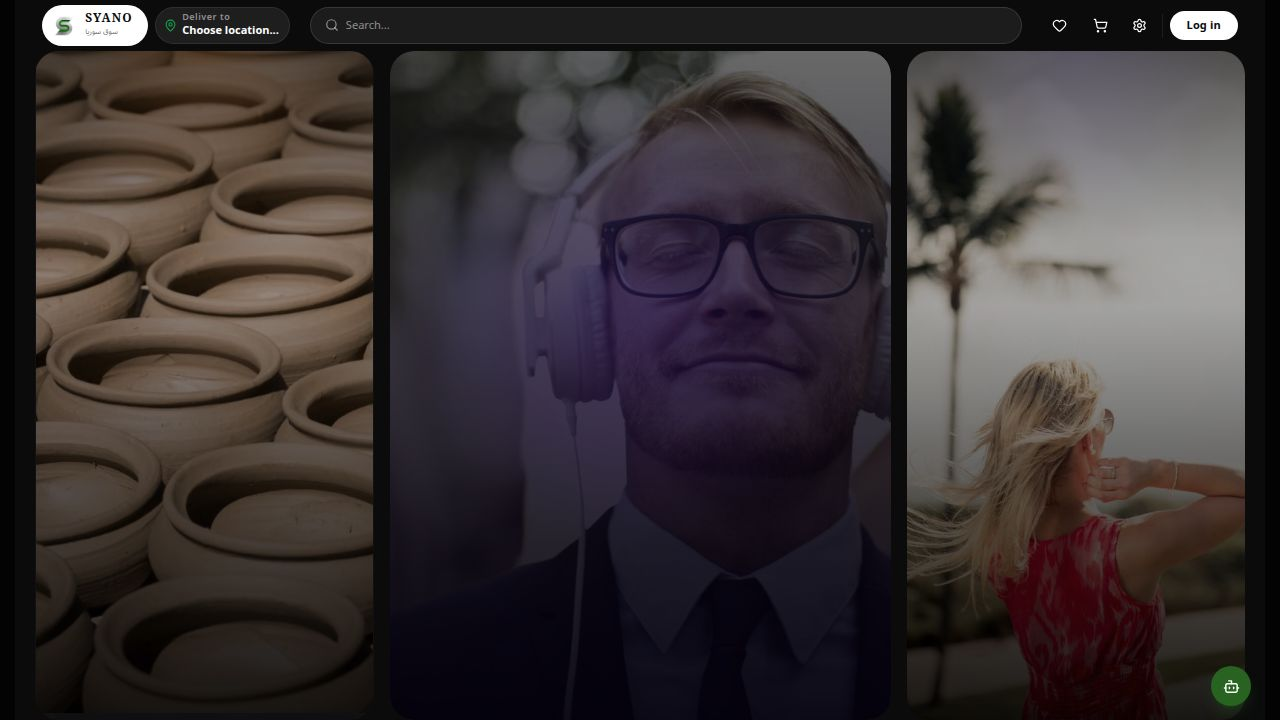
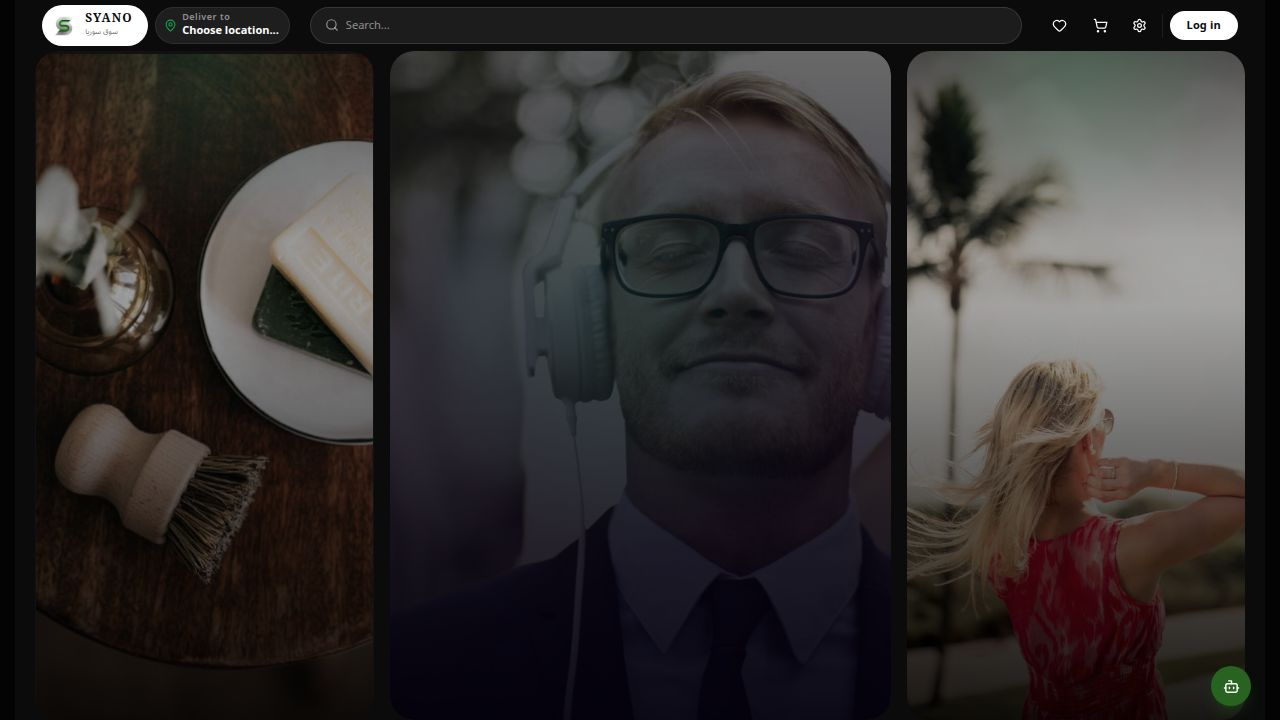
Update accent colors to use the site's green consistently
Replaces all instances of purple accents with the designated green accent color in the luxury landing page and its navbar, ensuring consistency across both light and dark modes.

Replit-Commit-Author: Agent
Replit-Commit-Session-Id: 1be86b3c-6ca1-4396-ab23-e744771a7cfa
Replit-Commit-Checkpoint-Type: full_checkpoint
Replit-Commit-Event-Id: 4d0bea36-551a-40fd-8a1b-fde6971f86e3
Replit-Commit-Screenshot-Url: https://storage.googleapis.com/screenshot-production-us-central1/cc40c669-8dcc-48f2-8d11-56ca1caf157f/1be86b3c-6ca1-4396-ab23-e744771a7cfa/AggTSVe
Replit-Helium-Checkpoint-Created: true

Changed region(s): [[0.0312, 0.0611, 0.3125, 0.8556], [0.4688, 0.3667, 0.5625, 0.5194], [0.1562, 0.8861, 0.25, 0.9472]]

diff --git a/artifacts/marketplace/src/pages/luxury-landing.tsx b/artifacts/marketplace/src/pages/luxury-landing.tsx
@@ -49,7 +49,7 @@ const FONT_CSS = `
   @import url('https://fonts.googleapis.com/css2?family=Noto+Naskh+Arabic:wght@400;600;700&family=Noto+Sans+Arabic:wght@400;500;600;700&display=swap');
   .lux-root *, .lux-root { box-sizing: border-box; }
   .lux-root button { cursor: pointer; border: none; outline: none; }
-  .lux-root button:focus-visible { outline: 2px solid rgba(124,58,237,0.7); outline-offset: 2px; border-radius: 9999px; }
+  .lux-root button:focus-visible { outline: 2px solid rgba(22,163,74,0.75); outline-offset: 2px; border-radius: 9999px; }
 `;
 
 /* ─── Responsive section grid rules ─────────────────────────────────────────*/
@@ -153,63 +153,58 @@ const SECTION_CSS = `
   .lux-social-icon:hover { background: rgba(255,255,255,0.10) !important; border-color: rgba(255,255,255,0.18) !important; color: rgba(255,255,255,0.80) !important; }
   .lux-footer-input:focus { border-color: rgba(255,255,255,0.20) !important; }
 
-  /* ── Light mode overrides ─────────────────────────────────────────────────
-     Applied when html does NOT carry the .dark class (next-themes light/system-light).
-     Only hover/focus interactive states need CSS overrides; other colors are
-     driven by the LuxColorCtx React context. */
+  /* ── Light mode CSS overrides ─────────────────────────────────────────────
+     Hover/focus interactive states that cannot be driven by React context.   */
   html:not(.dark) .lux-footer-bottom { border-top-color: rgba(17,24,39,0.08); }
   html:not(.dark) .lux-footer-link:hover { color: rgba(17,24,39,0.75) !important; }
   html:not(.dark) .lux-social-icon:hover { background: rgba(17,24,39,0.06) !important; border-color: rgba(17,24,39,0.14) !important; color: rgba(17,24,39,0.60) !important; }
-  html:not(.dark) .lux-footer-input:focus { border-color: rgba(17,24,39,0.20) !important; }
+  html:not(.dark) .lux-footer-input:focus { border-color: rgba(22,163,74,0.35) !important; }
 
   .lux-root { text-rendering: optimizeSpeed; }
   .lux-gpu-layer { transform: translateZ(0); backface-visibility: hidden; }
 `;
 
 /* ─── Brand tokens — DARK (default) ──────────────────────────────────────────
-   All rgba(255,255,255,…) values are for dark surfaces.
-   C is the single source of truth for dark mode.                            */
+   Site-wide green accent: #16A34A (confirmed in LuxuryNavbar GREEN constant
+   and throughout badges/icons/interactive elements site-wide).
+   greenAlpha / greenGlow are alpha variants of the same hue.                */
 const C = {
-  bg:          "#0B0B0C",
-  card:        "#111113",
-  card2:       "#141416",
-  white:       "#FFFFFF",
-  offWhite:    "#F2F2F0",
-  muted:       "rgba(255,255,255,0.52)",
-  dimmed:      "rgba(255,255,255,0.28)",
-  border:      "rgba(255,255,255,0.08)",
-  borderHov:   "rgba(255,255,255,0.16)",
-  purple:      "#7C3AED",
-  purpleAlpha: "rgba(124,58,237,0.18)",
-  purpleGlow:  "rgba(124,58,237,0.40)",
-  green:       "#16A34A",
-  greenAlpha:  "rgba(22,163,74,0.16)",
+  bg:         "#0B0B0C",
+  card:       "#111113",
+  card2:      "#141416",
+  white:      "#FFFFFF",
+  offWhite:   "#F2F2F0",
+  muted:      "rgba(255,255,255,0.52)",
+  dimmed:     "rgba(255,255,255,0.28)",
+  border:     "rgba(255,255,255,0.08)",
+  borderHov:  "rgba(255,255,255,0.16)",
+  green:      "#16A34A",
+  greenAlpha: "rgba(22,163,74,0.16)",
+  greenGlow:  "rgba(22,163,74,0.28)",
 } as const;
 
 /* ─── Brand tokens — LIGHT ────────────────────────────────────────────────────
-   Every value is traceable to an existing site-wide token in index.css :root.
-   background  hsl(210 20% 98%) ≈ #F8FAFC         (--background light)
-   card        hsl(0 0% 100%)   = #FFFFFF           (--card light)
-   card2       hsl(220 22% 96%) ≈ #EEF0F7           (--section-alt light)
-   foreground  hsl(221 39% 11%) ≈ #111827           (--foreground light)
-   muted-fg    hsl(220 13% 32%) ≈ #3D4554           (--muted-foreground light)
-   border      hsl(220 13% 84%) ≈ #D1D4E0           (--border light)
-   purple / green unchanged — brand accents readable on both surfaces.       */
+   Every value traceable to existing site-wide tokens in index.css :root.
+   background  hsl(210 20% 98%) ≈ #F8FAFC
+   card        hsl(0 0% 100%)   = #FFFFFF
+   card2       hsl(220 22% 96%) ≈ #EEF0F7 (--section-alt)
+   foreground  hsl(221 39% 11%) ≈ #111827 (--foreground)
+   muted-fg    hsl(220 13% 32%) ≈ #3D4554 (--muted-foreground)
+   border      hsl(220 13% 84%) ≈ #D1D4E0 (--border)
+   green / greenAlpha / greenGlow — site-wide accent, unchanged.             */
 const CL = {
-  bg:          "#F8FAFC",
-  card:        "#FFFFFF",
-  card2:       "#EEF0F7",
-  white:       "#111827",
-  offWhite:    "#111827",
-  muted:       "#3D4554",
-  dimmed:      "rgba(17,24,39,0.50)",
-  border:      "#D1D4E0",
-  borderHov:   "rgba(17,24,39,0.22)",
-  purple:      "#7C3AED",
-  purpleAlpha: "rgba(124,58,237,0.10)",
-  purpleGlow:  "rgba(124,58,237,0.18)",
-  green:       "#16A34A",
-  greenAlpha:  "rgba(22,163,74,0.10)",
+  bg:         "#F8FAFC",
+  card:       "#FFFFFF",
+  card2:      "#EEF0F7",
+  white:      "#111827",
+  offWhite:   "#111827",
+  muted:      "#3D4554",
+  dimmed:     "rgba(17,24,39,0.50)",
+  border:     "#D1D4E0",
+  borderHov:  "rgba(17,24,39,0.22)",
+  green:      "#16A34A",
+  greenAlpha: "rgba(22,163,74,0.10)",
+  greenGlow:  "rgba(22,163,74,0.14)",
 } as const;
 
 /* ─── Color token type — string-valued so both C (dark) and CL (light) fit ─*/
@@ -274,17 +269,19 @@ interface FeaturedStoreAPI {
   reviewsCount:  number;
 }
 
-/* ─── Hero card stacks ────────────────────────────────────────────────────────*/
+/* ─── Hero card stacks ────────────────────────────────────────────────────────
+   Accents are per-card image overlay tints. All purple-family entries
+   replaced with green-family or blue tones to eliminate purple from UI.     */
 const LEFT_STACK: StackItem[] = [
   { id: "l0", label: "lux.left.l0.label", sublabel: "lux.left.l0.sublabel", badge: "lux.left.l0.badge",
     imageUrl: "https://images.pexels.com/photos/2220329/pexels-photo-2220329.jpeg?auto=compress&cs=tinysrgb&w=600&h=900&fit=crop",
-    accent: "#A78BFA" },
+    accent: "#4ade80" },                    /* was #A78BFA (light purple) → light green */
   { id: "l1", label: "lux.left.l1.label", sublabel: "lux.left.l1.sublabel", badge: "lux.left.l1.badge",
     imageUrl: "https://images.pexels.com/photos/267320/pexels-photo-267320.jpeg?auto=compress&cs=tinysrgb&w=600&h=900&fit=crop",
-    accent: "#FBBF24" },
+    accent: "#FBBF24" },                    /* amber — unchanged */
   { id: "l2", label: "lux.left.l2.label", sublabel: "lux.left.l2.sublabel", badge: "lux.left.l2.badge",
     imageUrl: "https://images.pexels.com/photos/755992/pexels-photo-755992.jpeg?auto=compress&cs=tinysrgb&w=600&h=900&fit=crop",
-    accent: "#818CF8" },
+    accent: "#60a5fa" },                    /* was #818CF8 (indigo-purple) → blue-400 */
 ];
 
 const RIGHT_STACK: StackItem[] = [
@@ -307,23 +304,25 @@ const CENTER_SLIDE_IMAGES = [
   "https://images.pexels.com/photos/4215110/pexels-photo-4215110.jpeg?auto=compress&cs=tinysrgb&w=600&h=900&fit=crop",
 ];
 
-/* ─── Category definitions ────────────────────────────────────────────────────*/
+/* ─── Category definitions ────────────────────────────────────────────────────
+   home_decor accent was #8b5cf6 (violet) → replaced with #22c55e (green-500). */
 const CATEGORY_DEFS = [
   { nameKey: "home.categories.electronics", countKey: "home.categories.count_electronics", img: "https://images.unsplash.com/photo-1498049794561-7780e7231661?w=500&h=360&fit=crop&auto=format&q=85", accent: "#3b82f6", slug: "Electronics" },
   { nameKey: "home.categories.fashion",     countKey: "home.categories.count_fashion",     img: "https://images.unsplash.com/photo-1483985988355-763728e1935b?w=500&h=360&fit=crop&auto=format&q=85", accent: "#ec4899", slug: "Fashion" },
   { nameKey: "home.categories.beauty",      countKey: "home.categories.count_beauty",      img: "https://images.unsplash.com/photo-1596462502278-27bfdc403348?w=500&h=360&fit=crop&auto=format&q=85", accent: "#f59e0b", slug: "Beauty & Personal Care" },
-  { nameKey: "home.categories.home_decor",  countKey: "home.categories.count_home_decor",  img: "https://images.unsplash.com/photo-1555041469-a586c61ea9bc?w=500&h=360&fit=crop&auto=format&q=85", accent: "#8b5cf6", slug: "Home & Kitchen" },
+  { nameKey: "home.categories.home_decor",  countKey: "home.categories.count_home_decor",  img: "https://images.unsplash.com/photo-1555041469-a586c61ea9bc?w=500&h=360&fit=crop&auto=format&q=85", accent: "#22c55e", slug: "Home & Kitchen" },
   { nameKey: "home.categories.sports",      countKey: "home.categories.count_sports",      img: "https://images.unsplash.com/photo-1552674605-db6ffd4facb5?w=500&h=360&fit=crop&auto=format&q=85", accent: "#276221", slug: "Sports & Fitness" },
   { nameKey: "home.categories.watches",     countKey: "home.categories.count_watches",     img: "https://images.unsplash.com/photo-1547996160-81dfa63595aa?w=500&h=360&fit=crop&auto=format&q=85", accent: "#f97316", slug: "Accessories" },
   { nameKey: "home.categories.phones",      countKey: "home.categories.count_phones",      img: "https://images.unsplash.com/photo-1511707171634-5f897ff02aa9?w=500&h=360&fit=crop&auto=format&q=85", accent: "#06b6d4", slug: "Electronics" },
-  { nameKey: "home.categories.computers",   countKey: "home.categories.count_computers",   img: "https://images.unsplash.com/photo-1496181133206-80ce9b88a853?w=500&h=360&fit=crop&auto=format&q=85", accent: "#a855f7", slug: "Electronics" },
+  { nameKey: "home.categories.computers",   countKey: "home.categories.count_computers",   img: "https://images.unsplash.com/photo-1496181133206-80ce9b88a853?w=500&h=360&fit=crop&auto=format&q=85", accent: "#16a34a", slug: "Electronics" },
 ];
 
-/* ─── Static store fallback data ─────────────────────────────────────────────*/
+/* ─── Static store fallback data ─────────────────────────────────────────────
+   بيت الديكور logoColor was #8b5cf6 (violet) → replaced with #16A34A.      */
 const STATIC_STORES = [
   { id: 1, name: "تك ستور سوريا", taglineAr: "أحدث الإلكترونيات والأجهزة الذكية", categoryKey: "home.categories.electronics", rating: 4.9, reviews: 1840, productCount: 3240, coverImg: "https://images.unsplash.com/photo-1684395882817-030e24c0322a?w=700&h=220&fit=crop&auto=format&q=80", logoColor: "#3b82f6", logoInitial: "ت", verified: true, slug: null },
   { id: 2, name: "دار الأناقة",   taglineAr: "أزياء فاخرة وموضة معاصرة للجميع",   categoryKey: "home.categories.fashion",     rating: 4.8, reviews: 2210, productCount: 1890, coverImg: "https://images.unsplash.com/photo-1768745294179-693a07a3f054?w=700&h=220&fit=crop&auto=format&q=80", logoColor: "#ec4899", logoInitial: "د", verified: true, slug: null },
-  { id: 3, name: "بيت الديكور",   taglineAr: "أثاث عصري وإكسسوارات منزلية راقية",  categoryKey: "home.categories.home_decor",  rating: 4.7, reviews: 956,  productCount: 2140, coverImg: "https://images.unsplash.com/photo-1724582586529-62622e50c0b3?w=700&h=220&fit=crop&auto=format&q=80", logoColor: "#8b5cf6", logoInitial: "ب", verified: true, slug: null },
+  { id: 3, name: "بيت الديكور",   taglineAr: "أثاث عصري وإكسسوارات منزلية راقية",  categoryKey: "home.categories.home_decor",  rating: 4.7, reviews: 956,  productCount: 2140, coverImg: "https://images.unsplash.com/photo-1724582586529-62622e50c0b3?w=700&h=220&fit=crop&auto=format&q=80", logoColor: "#16A34A", logoInitial: "ب", verified: true, slug: null },
 ];
 
 /* ─── Motion spring ───────────────────────────────────────────────────────────*/
@@ -355,7 +354,7 @@ const PHASE1_END_MS =
   bannerVariant.visible.transition.duration * 1000; // = 650
 
 /* ═══════════════════════════════════════════════════════════════════════════
-   HERO COMPONENTS (existing — unchanged)
+   HERO COMPONENTS
 ═══════════════════════════════════════════════════════════════════════════*/
 
 function ProductCard({ item }: { item: StackItem }) {
@@ -400,11 +399,11 @@ const CenterCard = memo(function CenterCard({ reduced }: { reduced: boolean }) {
         />
       </AnimatePresence>
 
-      {/* Dark cinematic gradient — kept in both modes to ensure tagline text contrast on image */}
+      {/* Dark cinematic gradient — kept in both modes to ensure text contrast on photo */}
       <div style={{ position: "absolute", inset: 0, background: "linear-gradient(to bottom, rgba(0,0,0,0.18) 0%, rgba(8,3,24,0.56) 44%, rgba(4,1,14,0.90) 100%)", pointerEvents: "none", borderRadius: "inherit" }} />
 
-      {/* Purple spectral glow — toned for light mode via purpleGlow token */}
-      <div style={{ position: "absolute", inset: 0, background: `radial-gradient(ellipse 72% 52% at 50% 40%, ${colors.purpleGlow} 0%, transparent 66%)`, pointerEvents: "none", borderRadius: "inherit", opacity: 0.44 }} />
+      {/* Green spectral glow — toned per mode via greenGlow token */}
+      <div style={{ position: "absolute", inset: 0, background: `radial-gradient(ellipse 72% 52% at 50% 40%, ${colors.greenGlow} 0%, transparent 66%)`, pointerEvents: "none", borderRadius: "inherit", opacity: 0.44 }} />
     </div>
   );
 });
@@ -472,7 +471,7 @@ function LuxCountdownTimer() {
       <div style={{ display: "flex", alignItems: "center", gap: "4px" }}>
         {[pad(time.h), pad(time.m), pad(time.s)].map((val, i) => (
           <span key={i} style={{ display: "flex", alignItems: "center", gap: "4px" }}>
-            <span style={{ fontWeight: 700, fontSize: "0.78rem", fontVariantNumeric: "tabular-nums", color: colors.white, background: colors.purpleAlpha, border: `1px solid ${colors.border}`, padding: "2px 8px", borderRadius: "6px", minWidth: "2rem", textAlign: "center", letterSpacing: "0.04em" }}>
+            <span style={{ fontWeight: 700, fontSize: "0.78rem", fontVariantNumeric: "tabular-nums", color: colors.white, background: colors.greenAlpha, border: `1px solid ${colors.border}`, padding: "2px 8px", borderRadius: "6px", minWidth: "2rem", textAlign: "center", letterSpacing: "0.04em" }}>
               {val}
             </span>
             {i < 2 && <span style={{ color: colors.dimmed, fontWeight: 700, fontSize: "0.8rem" }}>:</span>}
@@ -483,7 +482,7 @@ function LuxCountdownTimer() {
   );
 }
 
-/* ─── Luxury deal card (needs cart hooks → separate component) ────────────────*/
+/* ─── Luxury deal card ────────────────────────────────────────────────────────*/
 const LuxDealCard = memo(function LuxDealCard({ deal, index }: { deal: DealData; index: number }) {
   const { t } = useTranslation();
   const { format } = useCurrency();
@@ -565,7 +564,7 @@ const LuxDealCard = memo(function LuxDealCard({ deal, index }: { deal: DealData;
           <button
             onClick={handleAdd}
             disabled={adding}
-            style={{ display: "flex", alignItems: "center", gap: "5px", fontFamily: F.sans, fontWeight: 600, fontSize: "0.75rem", background: colors.purpleAlpha, border: `1px solid ${colors.border}`, color: colors.muted, padding: "12px 14px", borderRadius: "9999px", flexShrink: 0, opacity: adding ? 0.5 : 1 }}>
+            style={{ display: "flex", alignItems: "center", gap: "5px", fontFamily: F.sans, fontWeight: 600, fontSize: "0.75rem", background: colors.greenAlpha, border: `1px solid ${colors.border}`, color: colors.muted, padding: "12px 14px", borderRadius: "9999px", flexShrink: 0, opacity: adding ? 0.5 : 1 }}>
             {adding
               ? <div style={{ width: 12, height: 12, border: `1.5px solid ${colors.muted}`, borderTopColor: "transparent", borderRadius: "50%", animation: "spin 0.6s linear infinite" }} />
               : <ShoppingCart style={{ width: 12, height: 12 }} />}
@@ -785,7 +784,8 @@ const LuxTrendingSection = memo(function LuxTrendingSection({ products }: { prod
                   <div style={{ position: "absolute", inset: 0, background: "linear-gradient(to top, rgba(0,0,0,0.45) 0%, transparent 55%)" }} />
                   {isTrending && (
                     <div style={{ position: "absolute", top: "10px", insetInlineStart: "10px" }}>
-                      <span style={{ fontFamily: F.sans, fontWeight: 600, fontSize: "10px", background: colors.purpleAlpha, border: `1px solid rgba(124,58,237,0.40)`, color: "#c4b5fd", padding: "3px 9px", borderRadius: "9999px", letterSpacing: "0.04em" }}>
+                      {/* Trending badge — green accent: bg=greenAlpha, border=green at 40% opacity, text=#4ade80 (light green) */}
+                      <span style={{ fontFamily: F.sans, fontWeight: 600, fontSize: "10px", background: colors.greenAlpha, border: `1px solid rgba(22,163,74,0.40)`, color: "#4ade80", padding: "3px 9px", borderRadius: "9999px", letterSpacing: "0.04em" }}>
                         {t("home.trending.trending_badge")}
                       </span>
                     </div>
@@ -914,13 +914,14 @@ const LuxJoinSection = memo(function LuxJoinSection() {
           {/* Background glows */}
           <div style={{ position: "absolute", inset: 0, pointerEvents: "none" }}>
             <div style={{ position: "absolute", inset: 0, opacity: 0.035, backgroundImage: `linear-gradient(${colors.border} 1px, transparent 1px), linear-gradient(90deg, ${colors.border} 1px, transparent 1px)`, backgroundSize: "40px 40px" }} />
-            <div style={{ position: "absolute", top: "50%", left: "50%", transform: "translate(-50%,-50%)", width: "600px", height: "280px", borderRadius: "50%", background: colors.purpleGlow, filter: "blur(100px)" }} />
+            {/* Green ambient blur — replaces former purple glow */}
+            <div style={{ position: "absolute", top: "50%", left: "50%", transform: "translate(-50%,-50%)", width: "600px", height: "280px", borderRadius: "50%", background: colors.greenGlow, filter: "blur(100px)" }} />
           </div>
 
           <div style={{ position: "relative", zIndex: 1, padding: "4rem 2rem" }}>
             <motion.div initial={{ opacity: 0, y: 20 }} whileInView={{ opacity: 1, y: 0 }} viewport={{ once: true }} transition={{ duration: 0.6, ease: fadeEase }}
               style={{ textAlign: "center", marginBottom: "3rem" }}>
-              <span style={{ display: "inline-flex", alignItems: "center", gap: "6px", fontFamily: F.sans, fontWeight: 600, fontSize: "0.72rem", letterSpacing: "0.1em", color: colors.muted, textTransform: "uppercase", background: colors.purpleAlpha, border: `1px solid ${colors.border}`, padding: "5px 14px", borderRadius: "9999px", marginBottom: "1.25rem" }}>
+              <span style={{ display: "inline-flex", alignItems: "center", gap: "6px", fontFamily: F.sans, fontWeight: 600, fontSize: "0.72rem", letterSpacing: "0.1em", color: colors.muted, textTransform: "uppercase", background: colors.greenAlpha, border: `1px solid ${colors.border}`, padding: "5px 14px", borderRadius: "9999px", marginBottom: "1.25rem" }}>
                 {t("home.join.badge")}
               </span>
               <h2 style={{ fontFamily: F.naskh, fontWeight: 700, fontSize: "clamp(1.5rem,3.5vw,2.75rem)", letterSpacing: "-0.02em", lineHeight: 1.2, color: colors.white, margin: "0 0 1rem" }}>
@@ -932,21 +933,21 @@ const LuxJoinSection = memo(function LuxJoinSection() {
             </motion.div>
 
             <div className="lux-join-grid">
-              {/* Seller card */}
+              {/* Seller card — green accent border + icon */}
               <motion.div initial={{ opacity: 0, y: 20 }} whileInView={{ opacity: 1, y: 0 }} viewport={{ once: true }} transition={{ duration: 0.55, delay: 0.1, ease: fadeEase }}
                 onClick={handleOpenYourStore}
                 onKeyDown={(e) => { if (e.key === "Enter" || e.key === " ") { e.preventDefault(); handleOpenYourStore(); } }}
                 role="button"
                 tabIndex={0}
-                style={{ background: colors.card2, border: `1px solid ${colors.purpleAlpha}`, borderRadius: "18px", padding: "1.75rem", cursor: "pointer", position: "relative", overflow: "hidden" }}>
-                <div style={{ position: "absolute", inset: 0, background: `radial-gradient(ellipse 80% 60% at 50% 110%, ${colors.purpleAlpha} 0%, transparent 70%)`, pointerEvents: "none" }} />
+                style={{ background: colors.card2, border: `1px solid rgba(22,163,74,0.22)`, borderRadius: "18px", padding: "1.75rem", cursor: "pointer", position: "relative", overflow: "hidden" }}>
+                <div style={{ position: "absolute", inset: 0, background: `radial-gradient(ellipse 80% 60% at 50% 110%, ${colors.greenAlpha} 0%, transparent 70%)`, pointerEvents: "none" }} />
                 <div style={{ position: "relative", zIndex: 1 }}>
-                  <div style={{ width: 48, height: 48, borderRadius: "14px", background: colors.purpleAlpha, border: `1px solid rgba(124,58,237,0.25)`, display: "flex", alignItems: "center", justifyContent: "center", marginBottom: "1.25rem" }}>
-                    <Store style={{ width: 22, height: 22, color: "#a78bfa" }} />
+                  <div style={{ width: 48, height: 48, borderRadius: "14px", background: colors.greenAlpha, border: `1px solid rgba(22,163,74,0.25)`, display: "flex", alignItems: "center", justifyContent: "center", marginBottom: "1.25rem" }}>
+                    <Store style={{ width: 22, height: 22, color: "#4ade80" }} />
                   </div>
                   <h3 style={{ fontFamily: F.naskh, fontWeight: 800, fontSize: "1.2rem", color: colors.white, margin: "0 0 0.5rem" }}>{t("home.join.seller_title")}</h3>
                   <p style={{ fontFamily: F.sans, fontWeight: 400, fontSize: "0.85rem", lineHeight: 1.65, color: colors.muted, margin: "0 0 1.25rem" }}>{t("home.join.seller_desc")}</p>
-                  <div style={{ display: "flex", alignItems: "center", gap: "6px", color: "#c4b5fd" }}>
+                  <div style={{ display: "flex", alignItems: "center", gap: "6px", color: "#4ade80" }}>
                     <span style={{ fontFamily: F.sans, fontWeight: 700, fontSize: "0.85rem" }}>{t("home.join.seller_cta")}</span>
                     <ArrowLeft style={{ width: 14, height: 14 }} />
                   </div>
@@ -960,7 +961,7 @@ const LuxJoinSection = memo(function LuxJoinSection() {
                 role="button"
                 tabIndex={0}
                 style={{ background: colors.card2, border: `1px solid ${colors.border}`, borderRadius: "18px", padding: "1.75rem", cursor: "pointer" }}>
-                <div style={{ width: 48, height: 48, borderRadius: "14px", background: colors.purpleAlpha, border: `1px solid ${colors.border}`, display: "flex", alignItems: "center", justifyContent: "center", marginBottom: "1.25rem" }}>
+                <div style={{ width: 48, height: 48, borderRadius: "14px", background: colors.greenAlpha, border: `1px solid ${colors.border}`, display: "flex", alignItems: "center", justifyContent: "center", marginBottom: "1.25rem" }}>
                   <Bike style={{ width: 22, height: 22, color: colors.muted }} />
                 </div>
                 <h3 style={{ fontFamily: F.naskh, fontWeight: 800, fontSize: "1.2rem", color: colors.white, margin: "0 0 0.5rem" }}>{t("home.join.courier_title")}</h3>
@@ -1113,7 +1114,7 @@ const LuxFooterBar = memo(function LuxFooterBar() {
                   target="_blank"
                   rel="noopener noreferrer"
                   className="lux-social-icon"
-                  style={{ width: 36, height: 36, borderRadius: "10px", background: colors.purpleAlpha, border: `1px solid ${colors.border}`, display: "flex", alignItems: "center", justifyContent: "center", color: colors.dimmed, textDecoration: "none", transition: "background 0.2s, color 0.2s, border-color 0.2s" }}
+                  style={{ width: 36, height: 36, borderRadius: "10px", background: colors.greenAlpha, border: `1px solid ${colors.border}`, display: "flex", alignItems: "center", justifyContent: "center", color: colors.dimmed, textDecoration: "none", transition: "background 0.2s, color 0.2s, border-color 0.2s" }}
                 >
                   <Icon style={{ width: 15, height: 15 }} />
                 </a>
@@ -1163,7 +1164,7 @@ const LuxFooterBar = memo(function LuxFooterBar() {
                   placeholder={t("home.footer.newsletter_placeholder")}
                   aria-label={t("home.footer.newsletter_placeholder")}
                   className="lux-footer-input"
-                  style={{ fontFamily: F.sans, fontWeight: 400, fontSize: "0.8rem", width: "100%", background: colors.purpleAlpha, border: `1px solid ${colors.border}`, borderRadius: "12px", padding: "0.72rem 1rem", color: colors.white, outline: "none", transition: "border-color 0.2s" }}
+                  style={{ fontFamily: F.sans, fontWeight: 400, fontSize: "0.8rem", width: "100%", background: colors.greenAlpha, border: `1px solid ${colors.border}`, borderRadius: "12px", padding: "0.72rem 1rem", color: colors.white, outline: "none", transition: "border-color 0.2s" }}
                 />
                 <button
                   type="submit"
@@ -1186,7 +1187,7 @@ const LuxFooterBar = memo(function LuxFooterBar() {
             {LUX_PAYMENT_METHODS.map((method) => (
               <span
                 key={method}
-                style={{ fontFamily: F.sans, fontWeight: 700, fontSize: "10px", letterSpacing: "0.05em", padding: "3px 10px", background: colors.purpleAlpha, border: `1px solid ${colors.border}`, color: colors.dimmed, borderRadius: "6px" }}
+                style={{ fontFamily: F.sans, fontWeight: 700, fontSize: "10px", letterSpacing: "0.05em", padding: "3px 10px", background: colors.greenAlpha, border: `1px solid ${colors.border}`, color: colors.dimmed, borderRadius: "6px" }}
               >
                 {method}
               </span>
@@ -1242,8 +1243,6 @@ export default function LuxuryLandingPage() {
 
   useEffect(() => {
     if (reduced) return;
-    // PHASE1_END_MS = 650ms (right banner drop-in completes at mount + 650ms).
-    // Wait an additional 4000ms after that → total 4650ms from mount.
     const id = setTimeout(() => setSplitTriggered(true), PHASE1_END_MS + 4000);
     return () => clearTimeout(id);
   }, [reduced]);
@@ -1280,7 +1279,6 @@ export default function LuxuryLandingPage() {
   const rightItem     = RIGHT_STACK[rightIdx];
   const nextLeftItem  = LEFT_STACK[(leftIdx + 1) % LEFT_STACK.length];
   const nextRightItem = RIGHT_STACK[(rightIdx + 1) % RIGHT_STACK.length];
-
 
   return (
     <LuxColorCtx.Provider value={colors}>